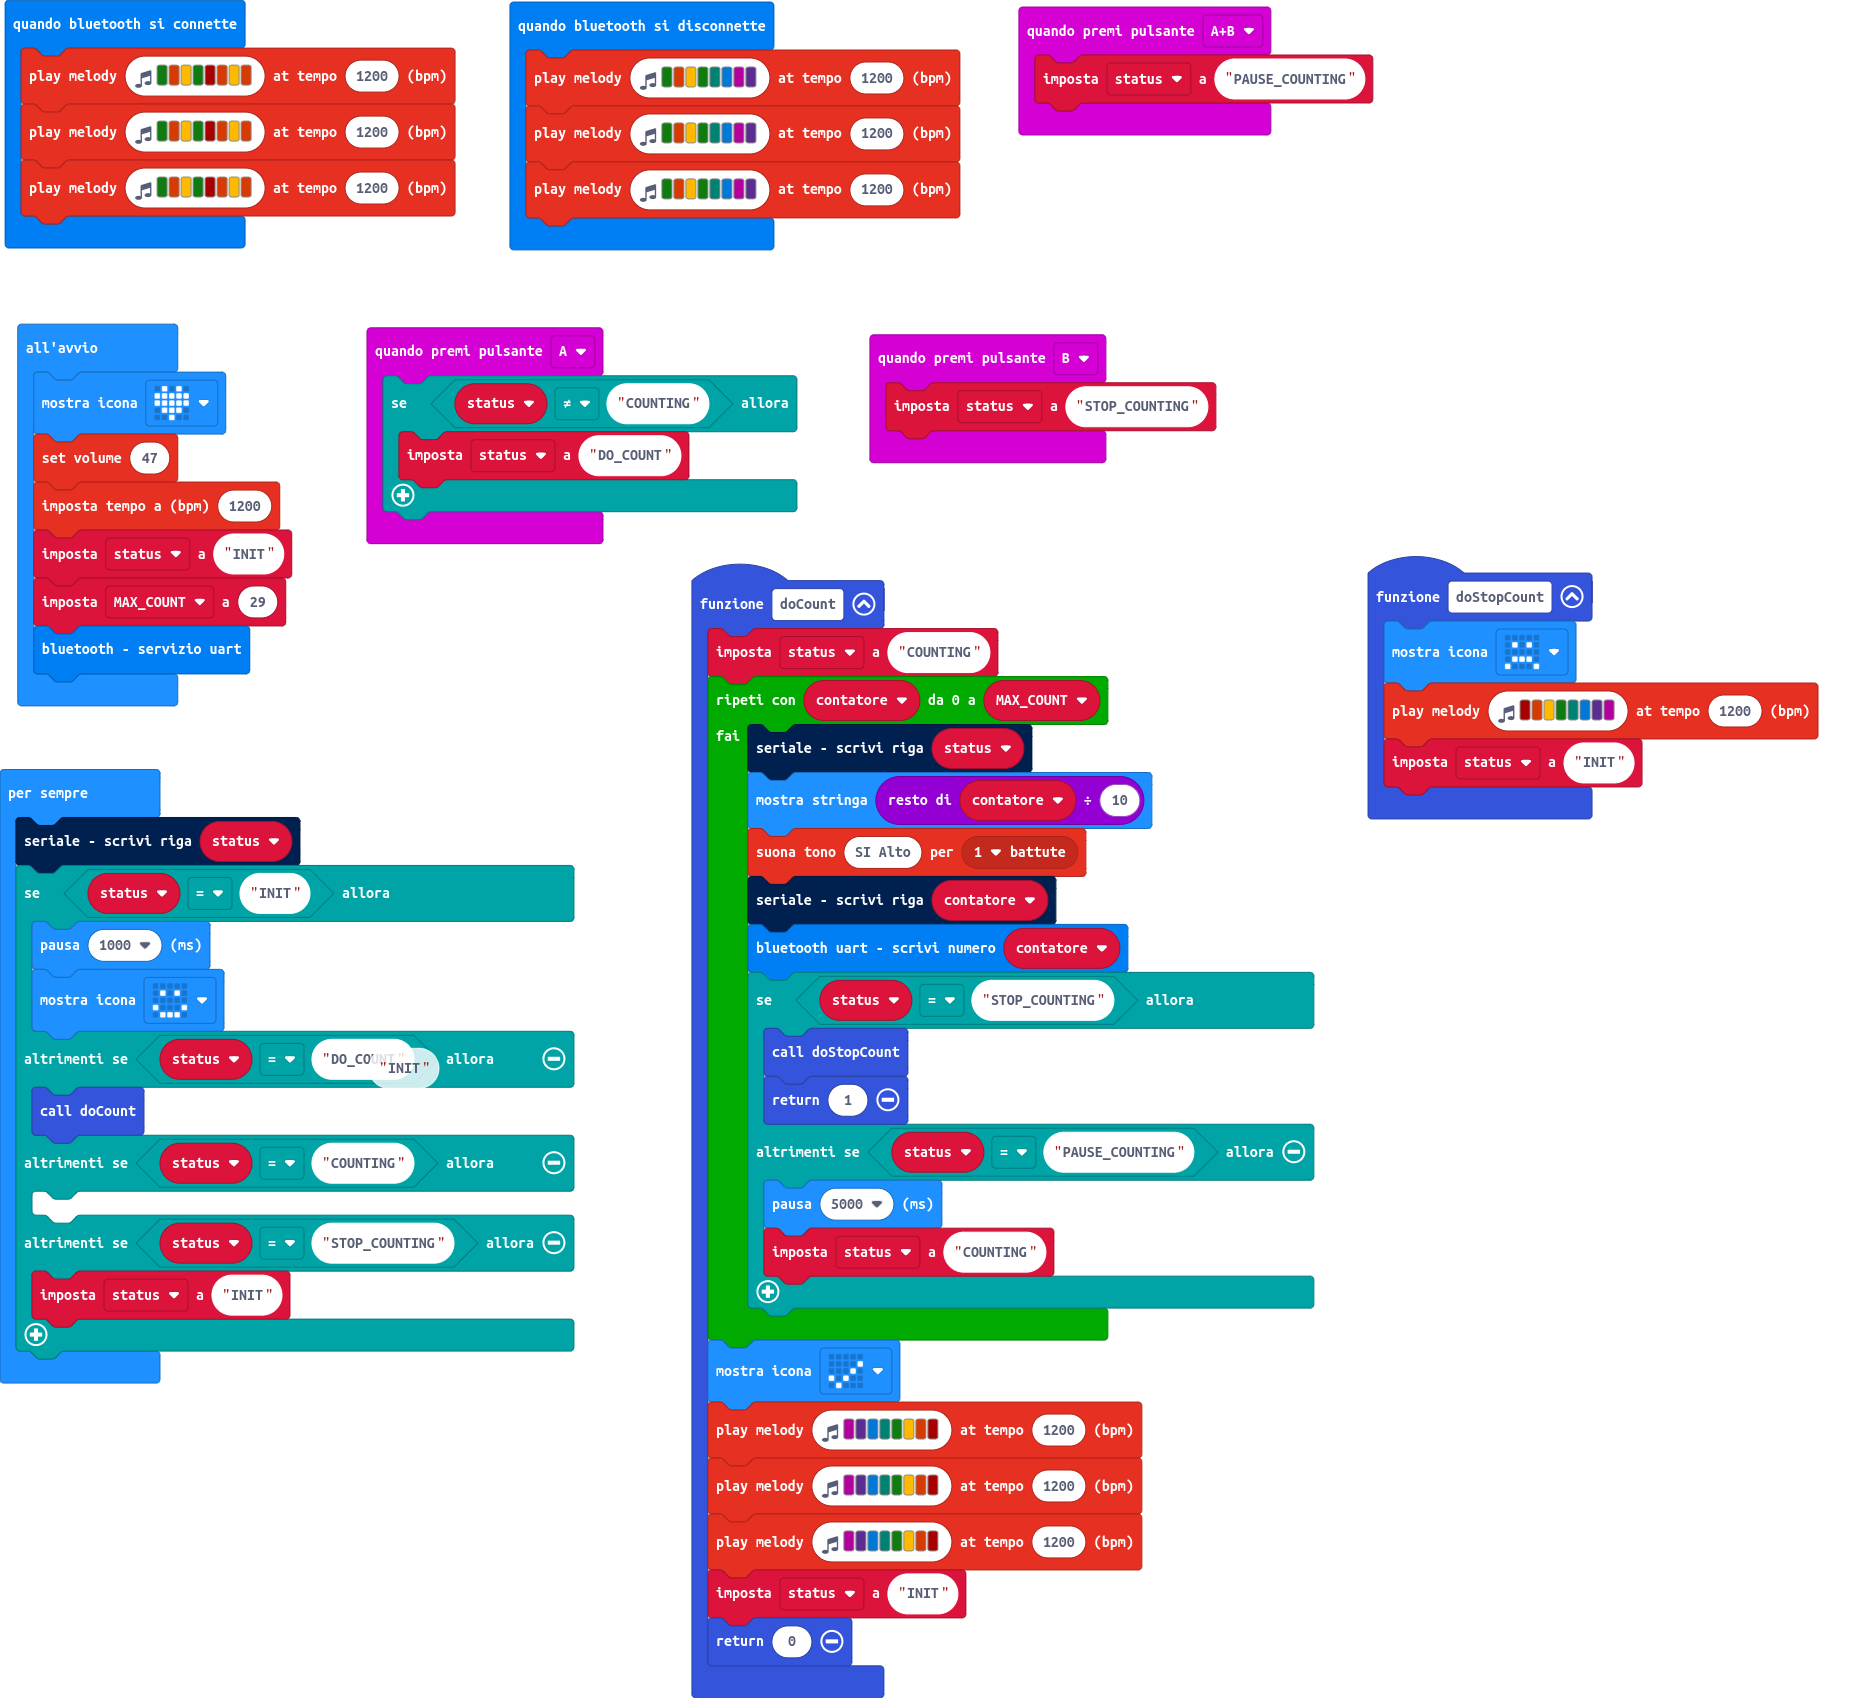
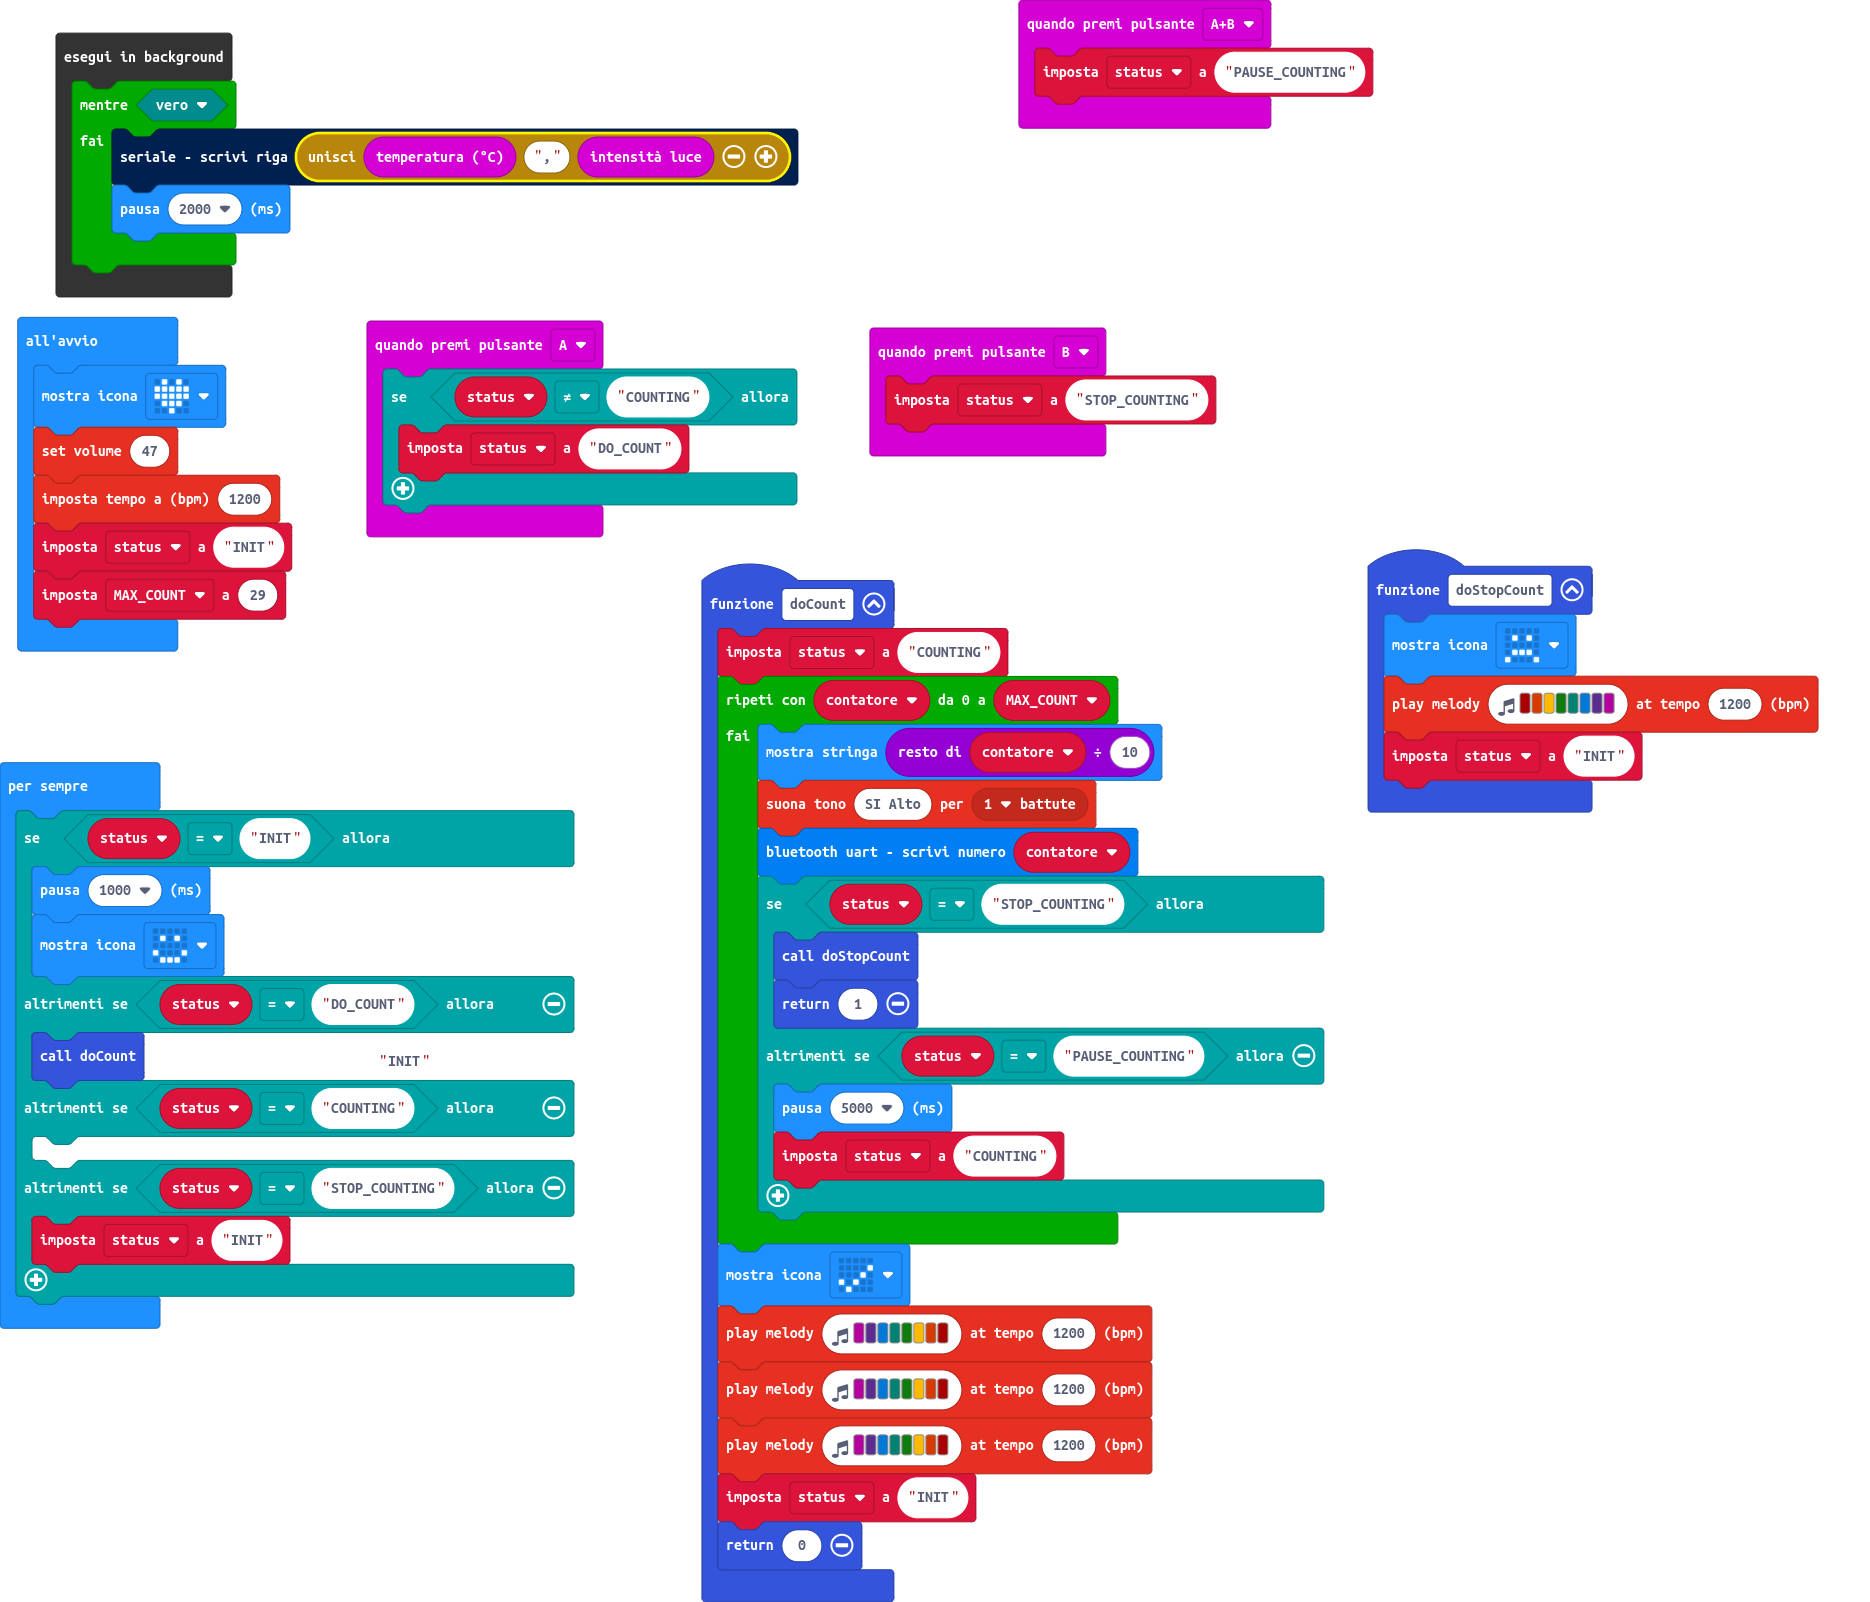
Log temperatura via seriale

diff --git a/main.ts b/main.ts
@@ -3,16 +3,6 @@ function doStopCount () {
     music.playMelody("C5 B A G F E D C ", 1200)
     status = "INIT"
 }
-bluetooth.onBluetoothConnected(function () {
-    music.playMelody("G B A G C5 B A B ", 1200)
-    music.playMelody("G B A G C5 B A B ", 1200)
-    music.playMelody("G B A G C5 B A B ", 1200)
-})
-bluetooth.onBluetoothDisconnected(function () {
-    music.playMelody("G B A G F E C D ", 1200)
-    music.playMelody("G B A G F E C D ", 1200)
-    music.playMelody("G B A G F E C D ", 1200)
-})
 input.onButtonPressed(Button.A, function () {
     if (status != "COUNTING") {
         status = "DO_COUNT"
@@ -21,10 +11,8 @@ input.onButtonPressed(Button.A, function () {
 function doCount () {
     status = "COUNTING"
     for (let contatore = 0; contatore <= MAX_COUNT; contatore++) {
-        serial.writeLine(status)
         basic.showString("" + (contatore % 10))
         music.playTone(988, music.beat(BeatFraction.Whole))
-        serial.writeLine("" + (contatore))
         bluetooth.uartWriteNumber(contatore)
         if (status == "STOP_COUNTING") {
             doStopCount()
@@ -54,9 +42,7 @@ music.setVolume(47)
 music.setTempo(1200)
 status = "INIT"
 MAX_COUNT = 29
-bluetooth.startUartService()
 basic.forever(function () {
-    serial.writeLine(status)
     if (status == "INIT") {
         basic.pause(1000)
         basic.showIcon(IconNames.Happy)
@@ -66,5 +52,11 @@ basic.forever(function () {
     	
     } else if (status == "STOP_COUNTING") {
         status = "INIT"
+    }
+})
+control.inBackground(function () {
+    while (true) {
+        serial.writeLine("" + input.temperature() + "," + input.lightLevel())
+        basic.pause(2000)
     }
 })
